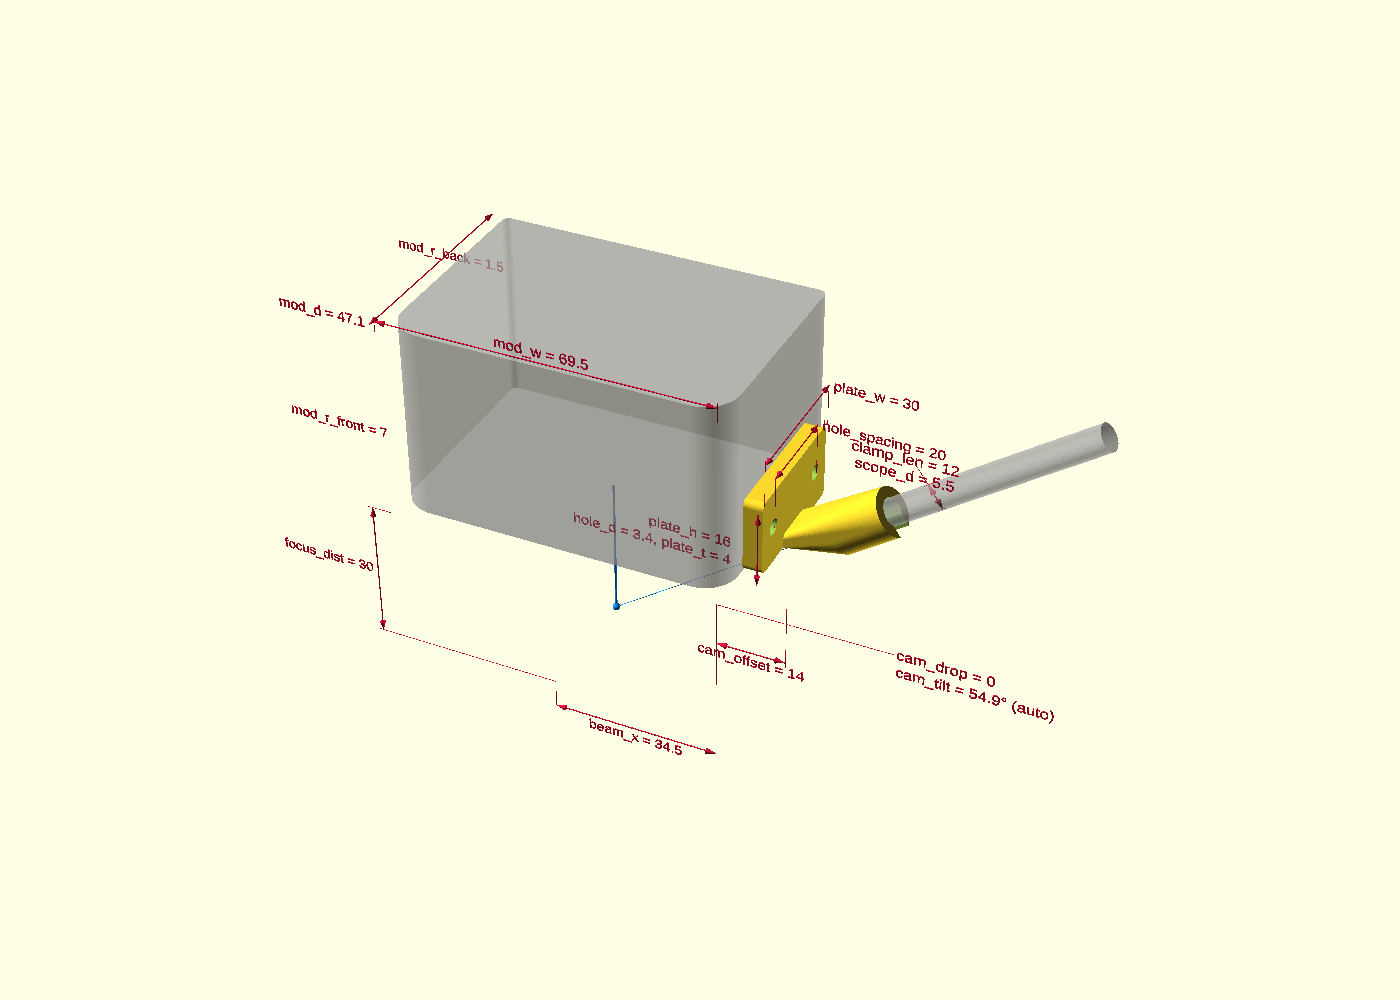
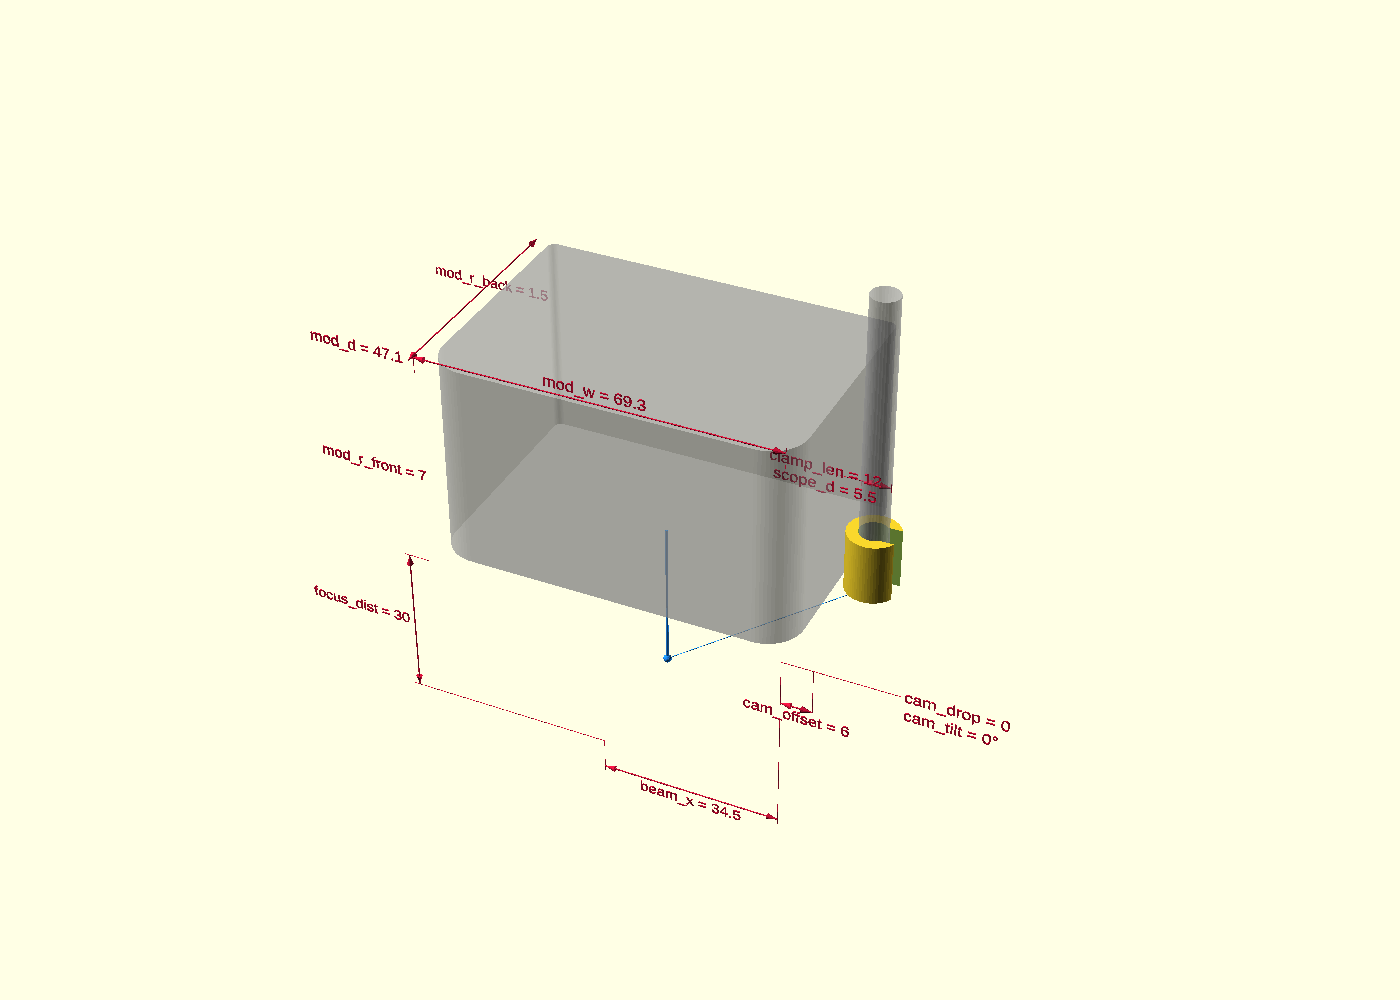
changed the default camera angle to 0

diff --git a/README.md b/README.md
@@ -20,13 +20,13 @@ machine), below the module, looking at the laser spot.
 
 | Preset | Status | Hardware |
 |---|---|---|
-| Falcon A1 Pro 20W - clip | measured, test print pending | 1× M3×10 screw, 1× M3 nut |
+| Falcon A1 Pro 20W - clip | test-printed, fits | 1× M3×10 screw, 1× M3 nut |
 | Falcon A1 Pro 20W - bottom screws | measured, test print pending | 2× M3×10 screws (replace the original M3×8) |
 | Sculpfun C1 Mini - clip (not measured yet) | placeholder values, do not print | 1× M3×10 screw, 1× M3 nut |
 
 If your laser is not listed, start with any clip preset and change the sizes (see below).
 
-**Falcon A1 Pro 20W notes**: module 69.5 × 47.1 mm, corner radius about 7 mm at the front
+**Falcon A1 Pro 20W notes**: module 69.3 × 47.1 mm, corner radius about 7 mm at the front
 and 1.5 mm at the back, beam 34.5 mm from the right face.
 The bottom screws are M3×8, 35.5 mm apart, 10 mm in from the right face. The bracket adds
 3 mm, so use M3×10: that still engages 7 mm of thread and cannot bottom out deeper than the
@@ -117,8 +117,8 @@ safer than too large.
 |---|---|
 | `cam_offset` | how far the lens center sits out to the right of the module |
 | `cam_drop` | how far the camera holder reaches below the mount's underside; 0 = flush, nothing sticks out below |
-| `aim_at_focus` | ticked: the camera points at the focus point automatically |
-| `cam_tilt` | manual angle, only used when `aim_at_focus` is off |
+| `aim_at_focus` | ticked: the camera points at the focus point automatically (off in all presets) |
+| `cam_tilt` | manual angle, only used when `aim_at_focus` is off; 0 = straight down (preset default) |
 
 Keep the camera above the workpiece (`cam_drop` smaller than `focus_dist`) and out of the
 air-assist stream.
@@ -128,7 +128,7 @@ air-assist stream.
 | Slider | Meaning |
 |---|---|
 | `clip_h` | height of the band; keep it below the cooling vents |
-| `clip_clearance` | gap between band and module; increase if too tight |
+| `clip_clearance` | gap between band and module on each side (0.2 = 0.4 mm in total across width and depth); lower if loose, raise if too tight |
 | `clip_lip` | small ledge under the module's bottom edge, sets the height |
 | `clip_wall` | wall thickness |
 | `clip_screw` | M3 clamp screw with a captive nut on the front |
@@ -192,6 +192,7 @@ clean it regularly.
 | Presets missing | `endoscope_mount.json` must be next to the `.scad` and have the same name |
 | Changes in the `.scad` file not visible | reopen the file, the Customizer reads fields only on opening |
 | Camera holder too tight / too loose | `scope_clearance` up / down, or `snap_ratio` |
+| Clip too tight / too loose | `clip_clearance` up / down in 0.05 mm steps; tighten the M3 screw |
 
 ## Files
 
